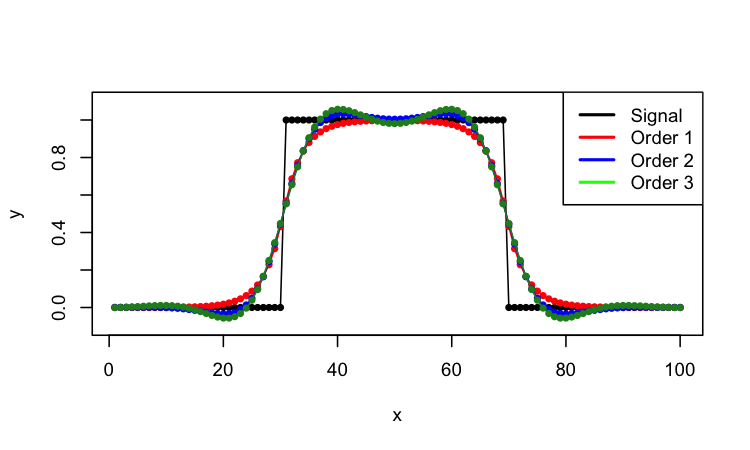
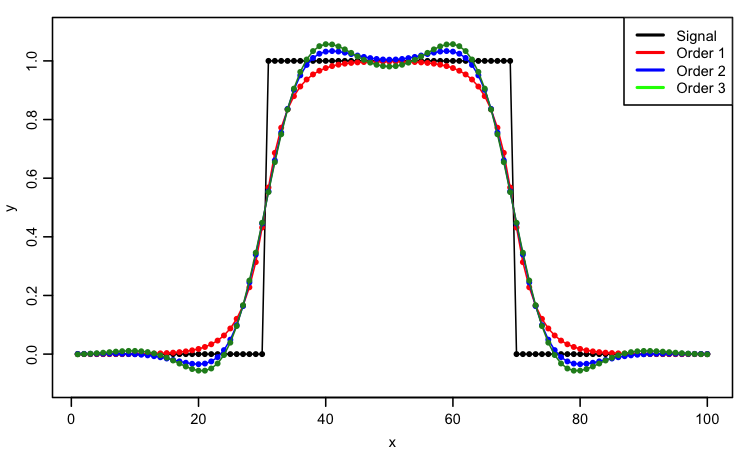
butter

diff --git a/_site/r/2014/01/15/butterworth-filters.html b/_site/r/2014/01/15/butterworth-filters.html
@@ -29,11 +29,12 @@
 
 <p><strong>2. Methods.</strong></p>
 
-<p>First, create and plot some fake data, a top-hat function.</p>
+<p>First, create and plot some fake data, a top-hat function. (Note the use of <code>par</code> to tighten the margins.)</p>
 <div class='highlight'><pre><code class='r'>library<span class='p'>(</span>signal<span class='p'>)</span>
 n <span class='o'>&lt;-</span> <span class='m'>100</span>
 x <span class='o'>&lt;-</span> <span class='m'>1</span><span class='o'>:</span>n
 y <span class='o'>&lt;-</span> ifelse<span class='p'>(</span><span class='m'>0.3</span><span class='o'>*</span>n <span class='o'>&lt;</span> x <span class='o'>&amp;</span> x <span class='o'>&lt;</span> <span class='m'>0.7</span><span class='o'>*</span>n<span class='p'>,</span> <span class='m'>1</span><span class='p'>,</span> <span class='m'>0</span><span class='p'>)</span>
+par<span class='p'>(</span>mar<span class='o'>=</span>c<span class='p'>(</span><span class='m'>3</span><span class='p'>,</span> <span class='m'>3</span><span class='p'>,</span> <span class='m'>1</span><span class='p'>,</span> <span class='m'>1</span><span class='p'>),</span> mgp<span class='o'>=</span>c<span class='p'>(</span><span class='m'>2</span><span class='p'>,</span> <span class='m'>0.7</span><span class='p'>,</span> <span class='m'>0</span><span class='p'>))</span>
 plot<span class='p'>(</span>x<span class='p'>,</span> y<span class='p'>,</span> type<span class='o'>=</span><span class='s'>&#39;o&#39;</span><span class='p'>,</span> pch<span class='o'>=</span><span class='m'>20</span><span class='p'>,</span> ylim<span class='o'>=</span>c<span class='p'>(</span><span class='m'>-0.1</span><span class='p'>,</span> <span class='m'>1.1</span><span class='p'>))</span>
 </code></pre></div>
 <p>Next, decide on the cutoff frequency for a low-pass filter. Setting <code>W</code> to 0.1 means a cutoff at 1/10-th of the Nyquist frequency.</p>

diff --git a/_posts/2014-01-15-butterworth-filters.md b/_posts/2014-01-15-butterworth-filters.md
@@ -18,13 +18,14 @@ Butterworth filters with order other than 1 have an overshoot phenomenon that ca
 
 **2. Methods.**
 
-First, create and plot some fake data, a top-hat function.
+First, create and plot some fake data, a top-hat function.  (Note the use of ``par`` to tighten the margins.)
 
 {% highlight R %}
 library(signal)
 n <- 100
 x <- 1:n
 y <- ifelse(0.3*n < x & x < 0.7*n, 1, 0)
+par(mar=c(3, 3, 1, 1), mgp=c(2, 0.7, 0))
 plot(x, y, type='o', pch=20, ylim=c(-0.1, 1.1))
 {% endhighlight %}
 
